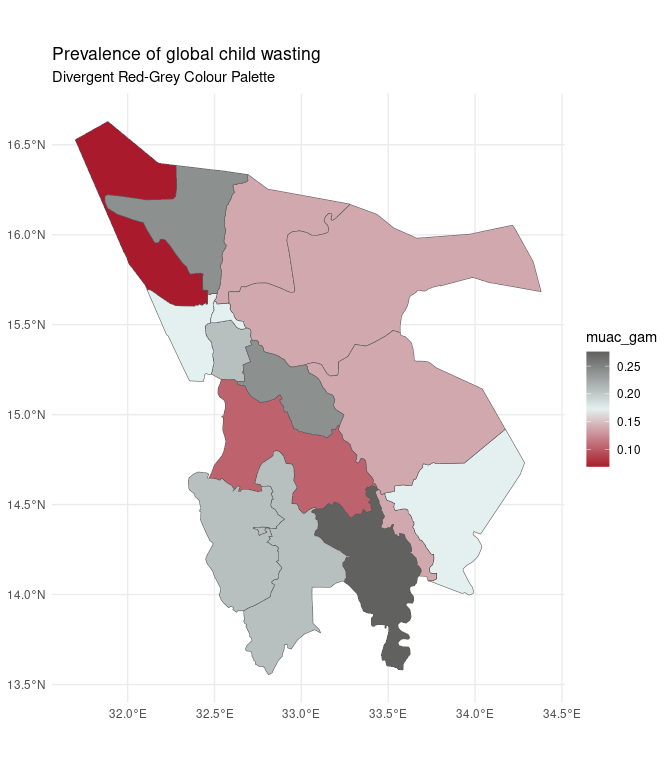
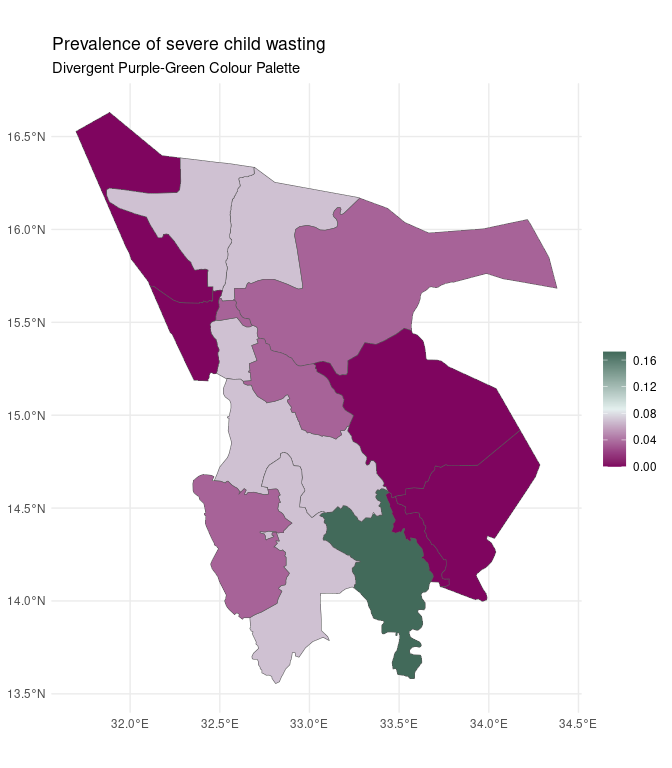
update README

diff --git a/README.md b/README.md
@@ -258,6 +258,7 @@ ggplot(data = mtcars, mapping = aes(x = mpg, y = disp, colour = factor(cyl))) +
 ggplot(data = nut_survey_map) +
   geom_sf(mapping = aes(fill = muac_gam)) +
   scale_fill_gradientn(
+    name = "",
     colours = create_palette_sequential(n = 5, name = "ylorbr")
   ) +
   labs(
@@ -270,6 +271,7 @@ ggplot(data = nut_survey_map) +
 ggplot(data = nut_survey_map) +
   geom_sf(mapping = aes(fill = muac_gam)) +
   scale_fill_gradientn(
+    name = "",
     colours = create_palette_sequential(n = 5, name = "ylgnbu")
   ) +
   labs(
@@ -286,27 +288,33 @@ ggplot(data = nut_survey_map) +
 
 ### Pink-Yellow-Green
 ggplot(data = nut_survey_map) +
-  geom_sf(mapping = aes(fill = muac_gam)) +
+  geom_sf(mapping = aes(fill = muac_mam)) +
   scale_fill_gradientn(
-    colours = create_palette_divergent(n = 9, name = "piylgn")
+    name = "",
+    colours = create_palette_divergent(n = 11, name = "piylgn")
   ) +
   labs(
-    title = "Prevalence of global child wasting",
+    title = "Prevalence of moderate child wasting",
     subtitle = "Divergent Pink-Yellow-Green Colour Palette"
   ) +
   theme_minimal()
+#> Warning in create_palette_divergent(n = 11, name = "piylgn"): Divergent
+#> palettes have maximum 11 colours. Returning 11 colours.
 
-### Red-Grey
+### Purple-Green
 ggplot(data = nut_survey_map) +
-  geom_sf(mapping = aes(fill = muac_gam)) +
+  geom_sf(mapping = aes(fill = muac_sam)) +
   scale_fill_gradientn(
-    colours = create_palette_divergent(n = 9, name = "rdgy")
+    name = "",
+    colours = create_palette_divergent(n = 11, name = "prgn")
   ) +
   labs(
-    title = "Prevalence of global child wasting",
-    subtitle = "Divergent Red-Grey Colour Palette"
+    title = "Prevalence of severe child wasting",
+    subtitle = "Divergent Purple-Green Colour Palette"
   ) +
   theme_minimal()
+#> Warning in create_palette_divergent(n = 11, name = "prgn"): Divergent palettes
+#> have maximum 11 colours. Returning 11 colours.
 ```
 
 <img src="man/figures/README-oxford-palette-divergent-1.png" width="50%" /><img src="man/figures/README-oxford-palette-divergent-2.png" width="50%" />
